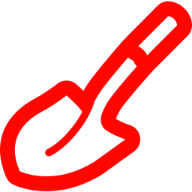
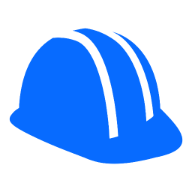
Introducing unearth's new branding!

diff --git a/src/components/Header.js b/src/components/Header.js
@@ -3,6 +3,7 @@ import {
   Box,
   Flex,
   Heading,
+  Image,
   Badge,
   Avatar,
   Menu,
@@ -12,6 +13,8 @@ import {
   MenuGroup,
   MenuDivider,
 } from '@chakra-ui/core'
+
+import unearthLogo from '../assets/unearth-horizontal_lockup.svg'
 
 import { useAuth } from '../contexts/AuthContext'
 import { SyncButton } from '../components'
@@ -35,12 +38,13 @@ const Header = () => {
       borderBottomColor='gray.200'
     >
       <Flex align='center' mr={5}>
-        <Heading as='h1' size='lg'>
+        {/* <Heading as='h1' size='lg'>
           Unearth
           <Badge ml={1} variant='subtle' variantColor='orange'>
             beta
           </Badge>
-        </Heading>
+        </Heading> */}
+        <Image src={unearthLogo} alt='Unearth logo' maxH='47px' />
       </Flex>
 
       {/* <Box display={{ sm: 'block', md: 'none' }} onClick={handleToggle}> */}

diff --git a/src/components/shared/NavLink.js b/src/components/shared/NavLink.js
@@ -27,12 +27,12 @@ const NavLink = ({ icon, canBeDeleted, item, children, ...rest }) => {
       width='full'
       height={10}
       pl={5}
-      color={isActive ? 'orange.700' : 'gray.700'}
-      bg={isActive ? 'orange.100' : 'transparent'}
+      color={isActive ? 'blue.700' : 'gray.700'}
+      bg={isActive ? 'blue.100' : 'transparent'}
       borderRadius='md'
       cursor='pointer'
       role='group'
-      _hover={{ color: 'orange.700' }}
+      _hover={{ color: 'blue.700' }}
     >
       <Link
         {...rest}

diff --git a/src/components/shared/SEO.js b/src/components/shared/SEO.js
@@ -9,11 +9,13 @@ import { Helmet } from 'react-helmet'
  */
 const SEO = ({ title }) => (
   <Helmet>
-    <title>{title === 'Unearth' ? title : `Unearth - ${title}`}</title>
+    <title>
+      {title.toLowerCase() === 'unearth' ? title : `unearth - ${title}`}
+    </title>
   </Helmet>
 )
 
 SEO.propTypes = { title: PropTypes.string }
-SEO.defaultProps = { title: 'Unearth' }
+SEO.defaultProps = { title: 'unearth' }
 
 export default SEO

diff --git a/src/components/shared/SyncButton.js b/src/components/shared/SyncButton.js
@@ -69,7 +69,7 @@ const SyncButton = ({ initialSync }) => {
   return (
     <Button
       size={initialSync ? 'md' : 'sm'}
-      variantColor='orange'
+      variantColor='blue'
       mr={3}
       isLoading={isLoading}
       loadingText={initialSync ? 'Fetching saves…' : 'Syncing…'}

diff --git a/src/components/Thing.js b/src/components/Thing.js
@@ -60,7 +60,7 @@ const Thing = React.memo(({ thing }) => {
       <Box>
         {thing.name === 'comment' && (
           <Box
-            color='#ff4500'
+            color='blue.400'
             fontWeight='semibold'
             letterSpacing='wide'
             fontSize='xs'
